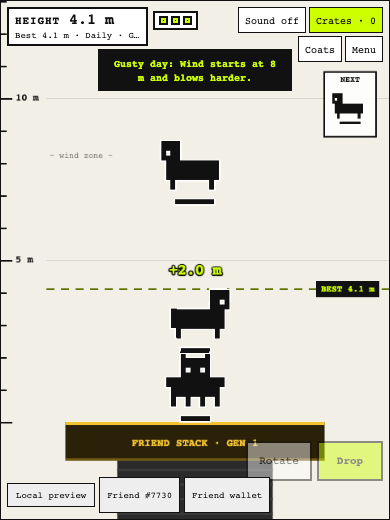
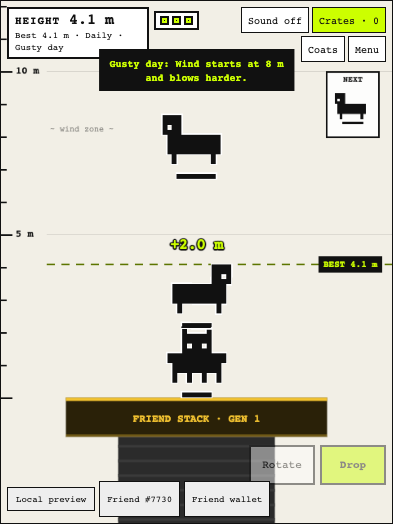
Friend Stack: phone layout fix, iPhone playtest, re-pin to f829585

diff --git a/submissions/friend-stack/README.md b/submissions/friend-stack/README.md
@@ -14,7 +14,7 @@ A physics tower stacker where every piece is one of your own Rare Friend's on-ch
 Connect your wallet and choose your hardwired Generations Friend. The game reads that Friend's canonical sprite frames through FriendSDK and turns every distinct pose into a rigid body. It also reads the Friend's generation: in Free Stack, higher generations get more "land" (a wider platform, following the docs' "promotion gives your Rare Friend more land"), and the platform's material shows the generation, from Stone at Gen 6 to Gold at Gen 1.
 
 **Source code**
-[GitHub repository](https://github.com/Bitcoinlouie/friend-stack/tree/a0c1f65ddd352450951b51a60e565b47a49f15c7/games/friend-stack) · FriendSDK v0.1.2, with [planck.js](https://github.com/piqnt/planck.js) (Box2D) for physics. The repository is a fork of FriendSDK; the game is in `games/friend-stack`.
+[GitHub repository](https://github.com/Bitcoinlouie/friend-stack/tree/f829585a108292d058c27e99a7be52c53c1a1625/games/friend-stack) · FriendSDK v0.1.2, with [planck.js](https://github.com/piqnt/planck.js) (Box2D) for physics. The repository is a fork of FriendSDK; the game is in `games/friend-stack`.
 
 **Playable demo / how to run**
 Public preview: **https://bitcoinlouie.github.io/friend-stack/**
@@ -26,7 +26,7 @@ To run locally with Node.js 22+:
 ```sh
 git clone https://github.com/Bitcoinlouie/friend-stack.git
 cd friend-stack
-git checkout a0c1f65ddd352450951b51a60e565b47a49f15c7
+git checkout f829585a108292d058c27e99a7be52c53c1a1625
 npm ci
 (cd games/friend-stack && npm ci)
 npm run dev:game -- games/friend-stack
@@ -65,22 +65,23 @@ Everything is simulated and labelled in game. The SDK preview wallet holds a fix
 - **Coats:** each crate reveals a coat that restyles every piece. Keep it, or redeem it for its fixed RF value with no expiry. Holding a Chalk, Brick and Neon Coat at once unlocks the cosmetic Prism Coat, which has no RF value.
 - **Where the RF goes:** under the SDK v0.1.2 `ChanceGame` contract, crate payments fund the game's prize pool, and the 12% edge stays with the developer who funds the prizes. Crate spending burns no RF. The game's protocol link is generation-based land: a wider Free Stack platform per generation, with nudges that show each promotion's real protocol price (for example 9,000 RF for Gen 3 → Gen 2, half burned and half to active NFT rewards).
 
-A Session spend panel in the Crates menu shows RF spent, crates opened, coat value received and the prize pool's result at mainnet scale. [Full rules, odds and economy notes](https://github.com/Bitcoinlouie/friend-stack/blob/a0c1f65ddd352450951b51a60e565b47a49f15c7/games/friend-stack/README.md#the-rarefriends-loop-simulated).
+A Session spend panel in the Crates menu shows RF spent, crates opened, coat value received and the prize pool's result at mainnet scale. [Full rules, odds and economy notes](https://github.com/Bitcoinlouie/friend-stack/blob/f829585a108292d058c27e99a7be52c53c1a1625/games/friend-stack/README.md#the-rarefriends-loop-simulated).
 
 **What have you tested?**
 - `npx friendsdk check games/friend-stack` and the game's TypeScript typecheck pass.
-- An automated browser check (`node games/friend-stack/test.mjs`) runs the real runtime and sandbox with the SDK's test wallet and sample Friend at 960 px and at 390 px portrait. It covers: choosing a mode; generation land (the fixture Friend is Gen 1); buying, carrying and opening a crate through the runtime confirmation; wearing a coat; losing all lives; the tower card; a paid revive with both confirmations; the Session spend panel; and the Daily Tower's standard platform.
+- An automated browser check (`node games/friend-stack/test.mjs`) runs the real runtime and sandbox with the SDK's test wallet and sample Friend at 960 px desktop and at three phone sizes (390 × 780 and 393 × 852 portrait, 852 × 393 landscape). It covers: choosing a mode; generation land (the fixture Friend is Gen 1); buying, carrying and opening a crate through the runtime confirmation; wearing a coat; losing all lives; the tower card; a paid revive with both confirmations; the Session spend panel; the Daily Tower's standard platform; and, on every phone size, that the Rotate and Drop buttons sit clear of the platform.
 - Headless physics simulations were used to tune sticky crates (37 of 38 aimed crates open) and wind strength.
 - Played with a real wallet and an owned Friend in a desktop browser, both locally and on the public GitHub Pages preview.
+- Played on an iPhone 15 Pro in a wallet app's browser on the public preview, with an owned Gen 4 Friend (#78723). This confirmed the generation read and Gen 4 Bronze land on a real device. That playtest found the Rotate and Drop buttons covering the platform on portrait phones; this version lowers the camera on narrow frames so the platform sits above them.
 
 **Known limitations**
 - Progress, session bests, the worn coat and Daily results reset on reload, because the SDK sandbox has no save API. A real Daily leaderboard would need persistence and a backend.
 - Tier-based perks are not implemented, because the SDK exposes no tier read.
-- Browser checks use the SDK's test wallet and simulated RPC responses. Gens 2 to 6 were not browser-tested (the fixture Friend is Gen 1); their land and promotion values were checked directly.
+- Automated browser checks use the SDK's test wallet and simulated RPC responses with a Gen 1 fixture Friend. Gen 4 was played on a real device; the land and promotion values for the other generations were checked directly.
 - No live token spending, trading, wearable NFTs or creator fees.
 
 **Credits**
-- Friend artwork: canonical Rare Friends Generations sprites via FriendSDK ([NOTICE](https://github.com/Bitcoinlouie/friend-stack/blob/a0c1f65ddd352450951b51a60e565b47a49f15c7/NOTICE.md)).
+- Friend artwork: canonical Rare Friends Generations sprites via FriendSDK ([NOTICE](https://github.com/Bitcoinlouie/friend-stack/blob/f829585a108292d058c27e99a7be52c53c1a1625/NOTICE.md)).
 - Sounds: FriendSDK sound kit, plus landing thuds synthesised in code.
 - Physics: [planck.js](https://github.com/piqnt/planck.js) (MIT).
 - Everything else (platform, crate, parachute, crown, coats, sky, tower card) is drawn in code for this game. Screenshots below were captured with the SDK test harness's sample Friend #7730.
@@ -88,4 +89,4 @@ A Session spend panel in the Crates menu shows RF spent, crates opened, coat val
 ![Start card](start-card.png)
 ![Crate reveal](crate-reveal.png)
 ![Tower down, with the shareable tower card and revive offer](tower-down.png)
-![Phone portrait layout](phone.png)
+![Phone portrait layout at iPhone 15 Pro size, with the controls below the platform](phone.png)
